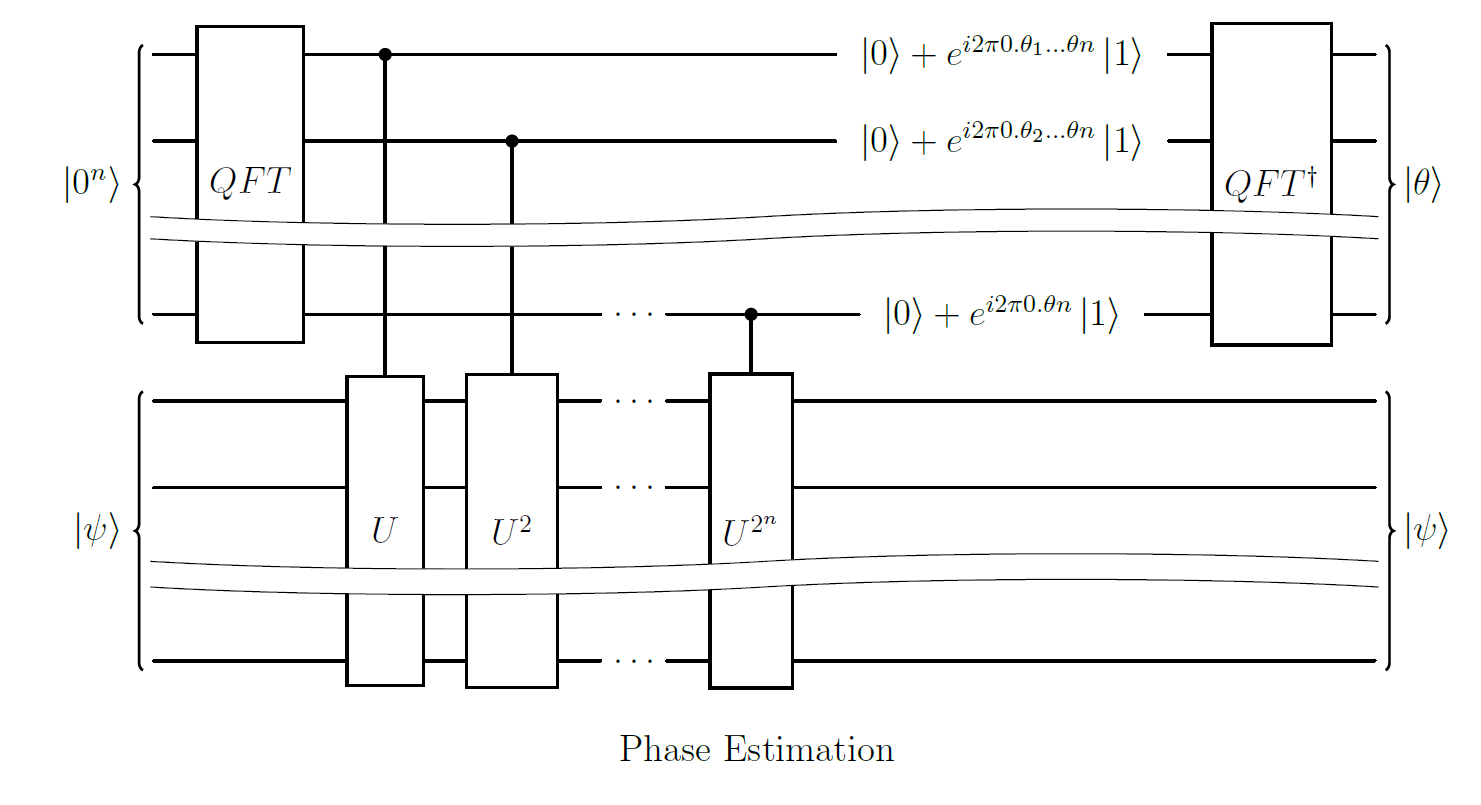
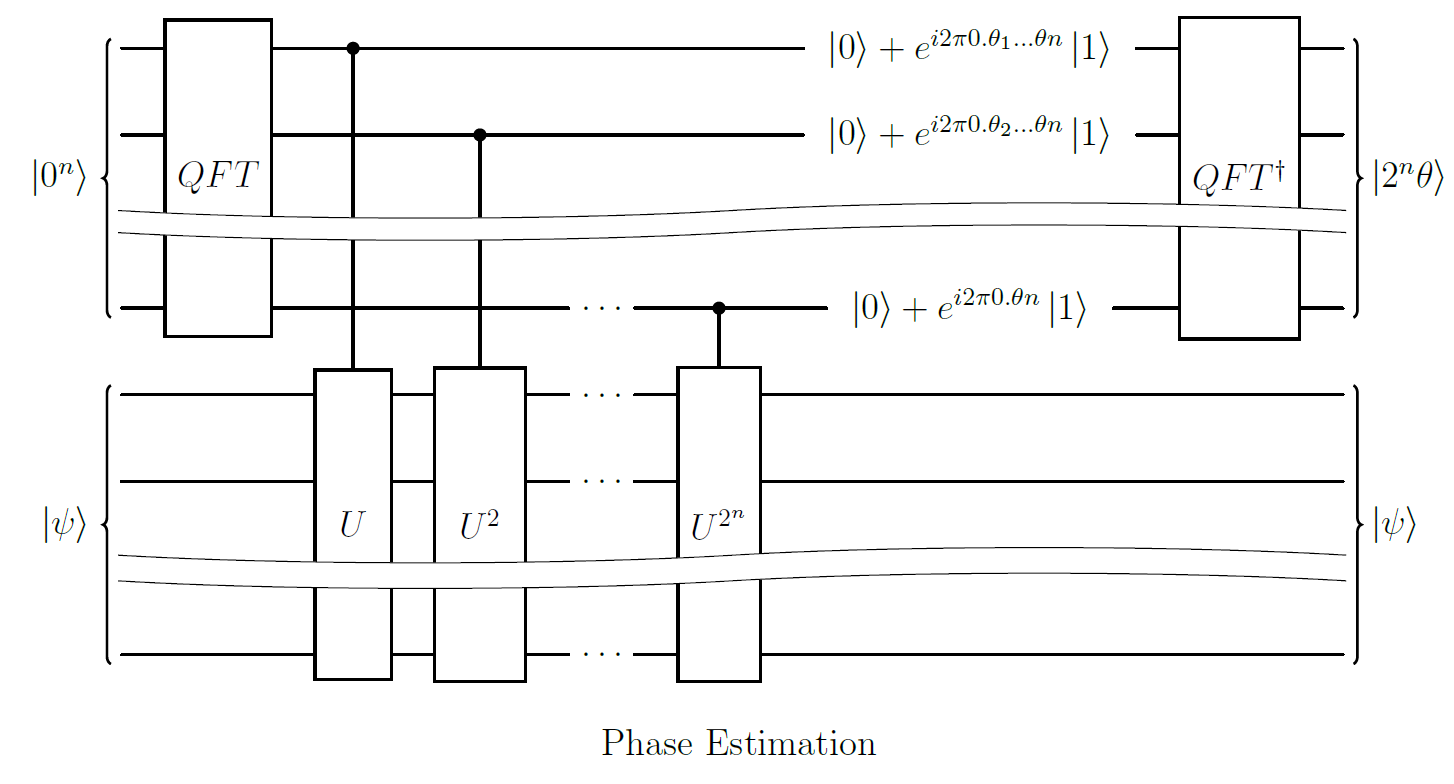
update

Changed region(s): [[0.0, 0.0, 1.0, 0.8878], [0.4023, 0.9184, 0.619, 0.9796]]

diff --git a/量子计算/量子计算(六)——量子傅里叶变换与相位估计.md b/量子计算/量子计算(六)——量子傅里叶变换与相位估计.md
@@ -207,11 +207,11 @@ $$\dfrac{2\pi}{2}\cdot1+\dfrac{2\pi}{2^2}\cdot0=\pi \\ \dfrac{2\pi}{2}\cdot0=0$$
 
 ### 1.量子门的相位
 
-量子门作为矩阵，自然是具有特征值与特征向量的。由于量子门是酉矩阵，它显然不会改变向量的模长——因此其特征值必然具有形式$e^{i2\pi\theta}$。从而对于量子门$U$，必然存在特征向量$| \psi \rangle$使得：
+量子门作为矩阵，自然是具有特征值与特征向量的。由于量子门是酉矩阵，它显然不会改变向量的模长——因此其本征值(特征值)必然具有形式$e^{i2\pi\theta}$。从而对于量子门$U$，必然存在本征态(特征向量)$| \psi \rangle$使得：
 
 $$U| \psi \rangle=e^{i2\pi\theta}| \psi \rangle$$
 
-这意味着对于特征向量，量子门仅仅是为其附加了一个全局相位。对于现实世界的观测者而言，这多出的全局相位显然是不重要的。
+这意味着对于本征态，量子门仅仅是为其附加了一个全局相位。对于现实世界的观测者而言，这多出的全局相位显然是不重要的。
 
 ### 2.相位反冲的原理
 
@@ -224,7 +224,7 @@ $$\begin{aligned}
     \end{bmatrix}
 \end{aligned}$$
 
-那么，假设控制位处于量子态$| \varphi \rangle=\alpha| 0 \rangle+\beta| 1 \rangle$而受控位恰为$U$的特征向量$| \psi \rangle$。经过$CU$作用之后：
+那么，假设控制位处于量子态$| \varphi \rangle=\alpha| 0 \rangle+\beta| 1 \rangle$而受控位恰为$U$的本征态$| \psi \rangle$。经过$CU$作用之后：
 
 $$\begin{aligned}
     CU(| \varphi \rangle| \psi \rangle)&=(| 0 \rangle\langle 0 |\otimes I)(| \varphi \rangle| \psi \rangle)+(| 1 \rangle\langle 1 |\otimes U)(| \varphi \rangle| \psi \rangle)\\
@@ -237,7 +237,7 @@ $$\begin{aligned}
 
 >笔者个人的理解是：对于控制位而言，其包含的$| 0 \rangle$态与$| 1 \rangle$态并不是平权的。例如，当控制位为$1$时，那么在作用之后恰好是$e^{i2\pi\theta}\beta| 1 \rangle| \psi \rangle$，此时引入了全局相位；而控制位为$0$时，则不会引入相位改变。于是由于叠加态原理，控制位的两个计算基态间的相位差发生改变，也就导致了相对相位的产生或改变。
 
-现在让我们考虑当受控位不是特征向量的情况。由于$U$是酉矩阵，其各特征向量自然是正交的，因此任意(等量子位数的)量子态$| \phi \rangle$都可以表示为其特征向量之线性和：
+现在让我们考虑当受控位不是本征态的情况。由于$U$是酉矩阵，其各本征态自然是正交的，因此任意(等量子位数的)量子态$| \phi \rangle$都可以表示为其本征态之线性和：
 
 $$| \phi \rangle=\displaystyle\sum w_k| \psi_k \rangle$$
 
@@ -251,7 +251,12 @@ $$\begin{aligned}
 
 从而：
 
-$$CU(| \varphi \rangle| \psi \rangle)=\alpha| 0 \rangle| \psi \rangle+\beta\displaystyle\sum w_ke^{i2\pi\theta_k}| 1 \rangle| \psi_k \rangle$$
+$$\begin{aligned}
+    CU(| \varphi \rangle| \psi \rangle)&=\alpha\displaystyle\sum w_k| 0 \rangle| \psi_k \rangle+\beta\sum w_ke^{i2\pi\theta_k}| 1 \rangle| \psi_k \rangle\\
+    &=\sum w_k(\alpha| 0 \rangle+e^{i2\pi\theta_k}\beta| 1 \rangle)| \psi_k \rangle
+\end{aligned}$$
+
+可见，$| \varphi \rangle$将会以概率$|w_k|^2$获得相对相位$2\pi\theta_k$。
 
 ---
 
@@ -259,23 +264,23 @@ $$CU(| \varphi \rangle| \psi \rangle)=\alpha| 0 \rangle| \psi \rangle+\beta\disp
 
 ### 1.算法思路
 
-在现实世界中，量子门往往仅是个黑箱——这意味着我们并不知道这个量子门的具体形式，也就更不必提求出它的特征值了。而相位估计就是为了解决这个问题。
+在现实世界中，量子门往往仅是个黑箱——这意味着我们并不知道这个量子门的具体形式，也就更不必提求出它的本征值了。而相位估计就是为了解决这个问题。
 
-显然对于特征向量来说，无论是否利用相位反冲，量子门$U$都只能引入一个对观测概率不产生影响的相位，因此这对我们估计量子门的特征值没有任何作用。但是注意到：我们之前介绍的量子傅里叶变换，就是让计算基态进入具有相对相位的叠加态；而量子电路可逆，相反地也自然能将相对相位转换为计算基态——而计算基态被测量到的概率就是$100\%$！这就给了我们相位估计的思路：只要利用相位反冲，让相位作用到控制位上，最后让控制位逆傅里叶变换一次即可。
+显然对于本征态来说，无论是否利用相位反冲，量子门$U$都只能引入一个对观测概率不产生影响的相位，因此这对我们估计量子门的本征值没有任何作用。但是注意到：我们之前介绍的量子傅里叶变换，就是让计算基态进入具有相对相位的叠加态；而量子电路可逆，相反地也自然能将相对相位转换为计算基态——而计算基态被测量到的概率就是$100\%$！这就给了我们相位估计的思路：只要利用相位反冲，让相位作用到控制位上，最后让控制位逆傅里叶变换一次即可。
 
 ### 2.线路构建
 
-为了分析简便，取受控位为$U$的特征向量$| \psi \rangle$。在相位反冲之前，我们要让控制位都进入叠加态——否则要么不引入相位、要么引入全局相位。为此首先让控制位从初始零态做一次量子傅里叶变换：
+为了分析简便，取受控位为$U$的本征态$| \psi \rangle$。在相位反冲之前，我们要让控制位都进入叠加态——否则要么不引入相位、要么引入全局相位。为此首先让控制位从初始零态做一次量子傅里叶变换：
 
 <image src="image/6/Hn.jpg">
 
 >值得注意的是，对$| 0^n \rangle$做$QFT$与在每个量子位上作用$H$门的效果是等价的。因为此时受控$R_k$门均不起作用，可以直接从量子傅里叶变换的线路图中删去。此时控制位进入均匀的叠加态。
 
-现在考虑如何使$U$的相位反冲到控制位上。我们再次将特征值$e^{i2\pi\theta}$中的$\theta$也写为二进制小数形式：
+现在考虑如何使$U$的相位反冲到控制位上。我们再次将本征值$e^{i2\pi\theta}$中的$\theta$也写为二进制小数形式：
 
 $$\theta=0.\theta_1\theta_2...\theta_{n-1}\theta_n...$$
 
-因此$U^2$的特征值就会是$(e^{i2\pi\theta})^2=e^{i2\pi2\theta}=e^{i2\pi0.\theta_2\theta_3...\theta_{n-1}\theta_n...}$，同理$U^{2^{k}}$中的$\theta$值为$0.\theta_{k}\theta_{k+1}...$。这样我们就构造出与量子傅里叶变换中各量子位相对相位相似的排列了。因此这个量子线路将如下构造：
+因此$U^2$的本征值就会是$(e^{i2\pi\theta})^2=e^{i2\pi2\theta}=e^{i2\pi0.\theta_2\theta_3...\theta_{n-1}\theta_n...}$，同理$U^{2^{k}}$中的$\theta$值为$0.\theta_{k}\theta_{k+1}...$。这样我们就构造出与量子傅里叶变换中各量子位相对相位相似的排列了。因此这个量子线路将如下构造：
 
 <image src="image/6/PhsEst.jpg">
 
@@ -283,6 +288,81 @@ $$\theta=0.\theta_1\theta_2...\theta_{n-1}\theta_n...$$
 
 <image src="image/6/PhsEstSim.jpg">
 
-### 3.误差分析
+### 3.误差与概率分析
 
+看到这里，您可能会惊叹于相位估计对量子傅里叶变换的巧妙运用。但有必要提醒您重新仔细阅读“由二进制本征值构造量子线路”这一部分。我们给出的线路图是可以正常正确运行的，但却刻意忽略了一个细节——图中相位反冲之后的相位是被高位截断了的！而在之前将$\theta$写为$0.\theta_1...\theta_n...$时后面还有省略号。
 
+这意味着相位测量算法是存在精确性问题的。如果$\theta$在二进制表示下是有穷的，那么使用足够多的量子确实可以精准得到其数值；但显然还有很多二进制无穷的$\theta$只能得到近似值。而这尚未穷尽的相位输入到逆傅里叶变换后会带来不确定性。现在我们的问题是：在无穷的情况下，测量得到的$\tilde{\theta}$与真实的$\theta$之间有多少误差？在给定误差限的情况下，测量结果又能以多大概率落在误差限内？
+
+记$j=\lfloor 2^n\theta \rfloor$，因为在有截断的情况下$2^n\theta$依然是小数，$j$才是真正测量的结果。考虑控制位在相位反冲后、逆傅里叶变换前的状态是：
+
+$$\dfrac{1}{2^{n/2}}\displaystyle\sum_{k=0}^{2^n-1}e^{i2\pi k\theta}| k \rangle$$
+
+所以在逆傅里叶变换之后的状态是：
+
+>虽然之前并未说明过量子傅里叶逆变换如何计算，但是注意到量子傅里叶变换本身可以用矩阵形式写出：
+>$$\begin{aligned}
+    \mathcal{F}\{| j \rangle\}&=\displaystyle\dfrac{1}{2^{N/2}}\sum_{k=0}^{2^N-1}e^{i\frac{2\pi}{2^N}jk}| k \rangle\\
+    &=\dfrac{1}{2^{N/2}}\begin{bmatrix}
+        1 & 1 & 1 & \cdots & 1\\
+        1 & \omega & \omega^{2} & \cdots & \omega^{2^N-1}\\
+        1 & \omega^{2} & \omega^{4} & \cdots & \omega^{2(2^N-1)}\\
+        \vdots & \vdots & \vdots & \ddots & \vdots\\
+        1 & \omega^{2^N-1} & \omega^{2(2^N-1)} & \cdots & \omega^{(2^N-1)^2}\\
+    \end{bmatrix}| j \rangle
+\end{aligned}$$
+>其中$\omega=e^{i\frac{2\pi}{2^N}}$。不妨将其中的矩阵也记为$\mathcal{F}$这一方面是一个范德蒙矩阵，但另一方面——既然它对应量子傅里叶变换的整体量子门，那么它就是一个酉矩阵。因此要计算量子傅里叶逆变换，只要计算$\mathcal{F}^{-1}=\mathcal{F}^\dagger$，也就是$\mathcal{F}$的转置共轭即可！
+
+$$\begin{aligned}
+    &\dfrac{1}{2^{N}}\begin{bmatrix}
+        1 & 1 & 1 & \cdots & 1\\
+        1 & \omega^{-1} & \omega^{-2} & \cdots & \omega^{-(2^N-1)}\\
+        1 & \omega^{-2} & \omega^{-4} & \cdots & \omega^{-2(2^N-1)}\\
+        \vdots & \vdots & \vdots & \ddots & \vdots\\
+        1 & \omega^{-(2^N-1)} & \omega^{-2(2^N-1)} & \cdots & \omega^{-(2^N-1)^2}\\
+    \end{bmatrix}\begin{bmatrix}
+        e^{i2\pi\cdot0\theta} \\ e^{i2\pi\cdot1\theta} \\ e^{i2\pi\cdot2\theta} \\ \vdots \\ e^{i2\pi\cdot(2^N-1)\theta}
+    \end{bmatrix}\\
+    &=\dfrac{1}{2^{N}}\left[ \displaystyle\sum_{k=0}^{2^N-1}e^{i2\pi k\theta}, \sum_{k=0}^{2^N-1}\omega^{-k}e^{i2\pi k\theta}, \sum_{k=0}^{2^N-1}\omega^{-2k}e^{i2\pi k\theta}, \cdots, \sum_{k=0}^{2^N-1}\omega^{-(2^N-1)k}e^{i2\pi k\theta}\right]\\
+    &=\dfrac{1}{2^{N}}\sum_{k=0}^{2^N-1}\sum_{j=0}^{2^N-1}\omega^{-jk}e^{i2\pi k\theta}| j \rangle\\
+    &=\dfrac{1}{2^{N}}\sum_{k=0}^{2^N-1}\sum_{j=0}^{2^N-1}e^{i2\pi \left( k\theta-\frac{kj}{2^N} \right)}| j \rangle\\
+    &=\sum_{j=0}^{2^N-1}\left( \dfrac{1}{2^{N}}\sum_{k=0}^{2^N-1}e^{i2\pi k \left( \theta-\frac{j}{2^N} \right)} \right)| j \rangle\\
+\end{aligned}$$
+
+因此测量结果为$| j \rangle$的概率就是：
+
+$$\begin{aligned}
+    P(j)&=\left| \dfrac{1}{2^{N}}\sum_{k=0}^{2^N-1}e^{i2\pi k \left( \theta-\frac{j}{2^N} \right)} \right|^2\\
+    &*利用等比数列求和*\\
+    &=\dfrac{1}{2^{2N}}\left| \dfrac{e^{i2\pi(2^N\theta-j)}-1}{e^{i2\pi\left( \theta-\frac{j}{2^N} \right)}-1} \right|^2\\
+\end{aligned}$$
+
+我们记误差$\varepsilon=|\theta-\dfrac{j}{2^N}|$。显然误差具有最小值$\dfrac{1}{2^{N+1}}$。在最好的情况下，$j$应当是二进制$\theta$的前$n$位(四舍五入后)，测量得到的概率自然也是最小的，此时$\varepsilon$的最大值是$\dfrac{1}{2^{N}}$。为了得到这个概率的下界，自然应取$\varepsilon=\dfrac{1}{2^{N+1}}$，首先求分子：
+
+$$|e^{i2\pi(2^N\theta-j)}-1|=|e^{i2\pi2^N\varepsilon}-1|=2$$
+
+>对于$|e^{i2\theta}-1|$，显然可以将其视作单位圆之实轴右交点与圆上一点所连的弦长，此点与实轴之张角为$2\theta$。于是弦长可以简单写为$2sin\theta$。在上面的例子中，$\theta=\pi\cdot2^N\varepsilon=\dfrac{\pi}{2}$，于是弦长为$2$。
+
+同理分母为：
+
+$$|e^{i2\pi\left( \theta-\frac{j}{2^N} \right)}-1|=|e^{i2\pi\varepsilon}-1|=2sin\dfrac{\pi}{2^{N+1}}\approx\dfrac{2\pi}{2^{N+1}}=\dfrac{\pi}{2^{N}}$$
+
+所以$P(j)=\dfrac{1}{2^{2N}}\cdot\left( \dfrac{2}{\frac{\pi}{2^N}} \right)^2=\dfrac{4}{\pi^2}=40.53\%$。这说明至少有四成的概率测量到最好的结果。也许您会觉得这个概率小得可怜，但这是因为我们只考虑了一个方向的误差，也就是只让结果比期望的小。如果允许测量值在期望值的两侧取值，那么概率就上升到至少八成。
+
+如果允许更大的误差，那么测量值在误差限内的概率将会更大。例如如果允许$k$倍的最小误差，那么测量结果在允许范围内的概率就至少是$1-\dfrac{1}{2(k-1)}$。
+
+### 4.问题重顾——当受控位不是本征态
+
+在这里，希望读者再重新阅读本节<相位估计>中的第一句话：
+
+>在现实世界中，量子门往往仅是个黑箱——这意味着我们并不知道这个量子门的具体形式，也就更不必提求出它的本征值了。
+
+在上面的分析中，我们已提前让受控位进入$U$的本征态。但是，既然我们不知道量子门的具体形式，又怎么可能提前制备本征态呢？这里就需要回到之前已分析过的<相位反冲的原理>了。当受控位处于本征态的叠加态时：
+
+$$CU(| \varphi \rangle| \psi \rangle)=\sum w_k(\alpha| 0 \rangle+e^{i2\pi\theta_k}\beta| 1 \rangle)| \psi_k \rangle$$
+
+这意味着即便是任意态，利用相位反冲也能将本征值的相位作用到控制位上；并且，$\theta_k$与$| \psi_k \rangle$是绑定的，只要测量受控位得到$| \psi_k \rangle$，那么算法能得到的也将会是$\theta_k$。
+
+另一方面，由于叠加态性质，经过量子逆傅里叶变换之后，控制位会保留各本征值对应的振幅。因此最后测量控制位时，会以$|w_k|^2$的概率得到$\theta_k$对应的信息。
+
+综上所述，相位估计是一个有效的算法，不因无法制备本征态而无法运行，而能测量到的$\theta_k$则取决于控制位所使用的位数。量子傅里叶变换也将会是后续许多算法的基础。
